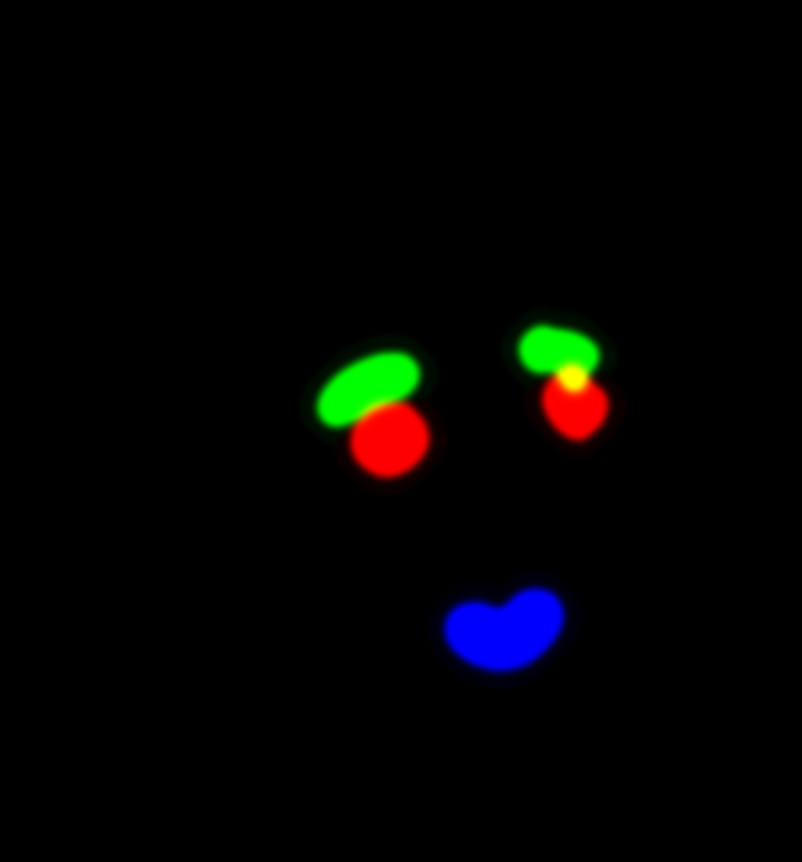
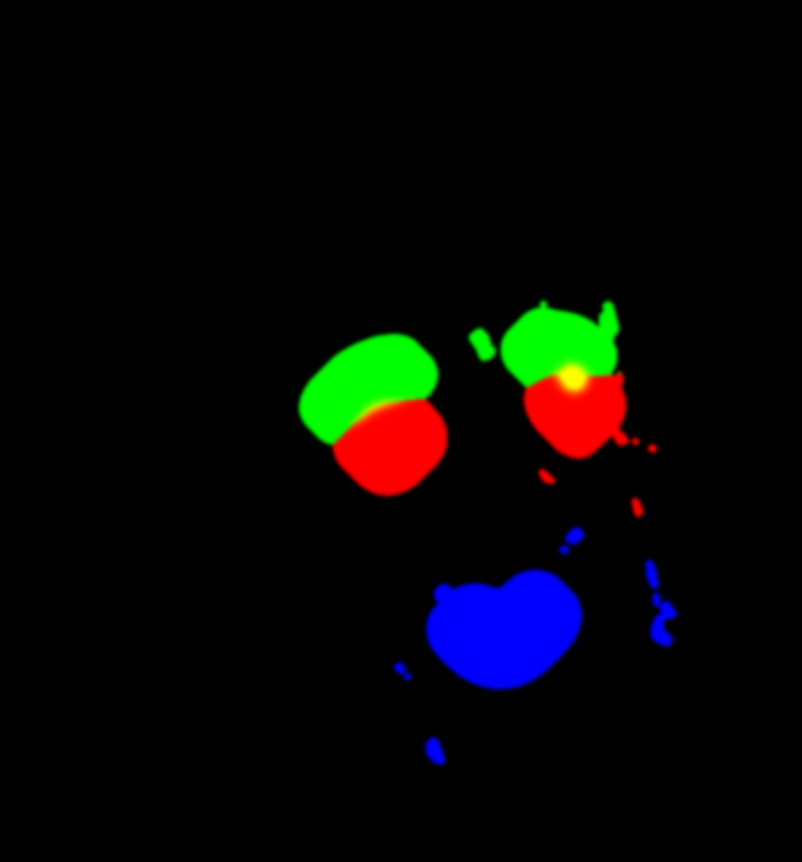
Faces: clean skin textures and feature masks regrown for the eight fitted skins (painted smile lines and brows removed; make_clean_skin.py compares against a wide median, one-hot margins)

diff --git a/tools/face3d/audit/make_clean_skin.py b/tools/face3d/audit/make_clean_skin.py
@@ -5,7 +5,7 @@
 # footprints) were smaller than the features painted in the reference (hose's big black eyes, pixel's blocks), so painted remnants stayed
 # on every emote; and the GLB's own map (the clean one) still carried faint feature rings. This:
 #   1. grows the holes: from the margins (dilated 8 px) outward over pixels where the raw skin differs strongly from a first fill (region
-#      growing, at most 44 px), so the hole matches what is really painted;
+#      growing, at most 130 px), so the hole matches what is really painted;
 #   2. refills them from the skin around (push-pull: coarse averages pushed back in) plus matched grain (noise with the surrounding
 #      high-pass statistics, not a copied patch);
 #   3. writes margins over the grown holes (each hole pixel takes the channel of its nearest original margin: eyes / brows / mouth).
@@ -43,14 +43,20 @@ front = (slice(None), slice(0, HW))
 mf = m.max(2)
 hole0 = nd.binary_dilation(mf > 0.04, iterations=8)
 f0 = pushpull(rw[front], (~hole0).astype(np.float32))
-diff = np.abs(rw[front] - f0).mean(2)
-cand = (diff > 16) & nd.binary_dilation(hole0, iterations=44)
-hole = nd.binary_propagation(hole0, mask=cand | hole0)
+# (against a wide median of the raw skin: f0 equals the raw pixels outside the holes, so it cannot show a feature that lies outside them)
+med = np.stack([nd.median_filter(rw[front][..., c], size=31) for c in range(3)], 2)
+diff = np.abs(rw[front] - med).mean(2)
+cand = (diff > 22) & nd.binary_dilation(hole0, iterations=110)
+# every strong deviation from the surrounding skin near a feature is that feature's paint (the painted smile line starts well outside the
+# margin's mouth footprint, so connectivity to it is not required)
+hole = cand | hole0
+hole = nd.binary_opening(hole, iterations=1) | hole0
 hole = nd.binary_closing(hole, iterations=3) | hole0
 hole = nd.binary_dilation(hole, iterations=3)
 # the clean map (front layer): the GLB map with the grown holes refilled, grain matched
 g = im[front]
 fill = pushpull(g, (~hole).astype(np.float32))
+fill = nd.gaussian_filter(fill, (4, 4, 0))   # (push-pull is blocky at its coarsest levels)
 low = nd.gaussian_filter(g, (3, 3, 0)); hp = g - low
 std = np.array([hp[(~hole) & (nd.binary_dilation(hole, iterations=60))][:, c].std() for c in range(3)])
 noise = nd.gaussian_filter(rng.standard_normal(g.shape).astype(np.float32), (0.8, 0.8, 0)) * std * 1.6
@@ -66,7 +72,8 @@ Image.fromarray(np.clip(clean + 0.5, 0, 255).astype(np.uint8)).save(out_clean, o
 # margins: each hole pixel takes the nearest original margin's channel, edge softened
 idx = nd.distance_transform_edt(~(mf > 0.04), return_indices=True)[1]
 near = m[idx[0], idx[1]]
-mn = np.where(hole[..., None], np.maximum(near, 0.0), 0.0)
+one = (near == near.max(2, keepdims=True)).astype(np.float32)   # the nearest margin's channel, at full strength
+mn = np.where(hole[..., None], one, 0.0)
 mn = np.maximum(mn, m)
 mn = nd.gaussian_filter(mn, (2, 2, 0))
 Image.fromarray(np.clip(mn * 255 + 0.5, 0, 255).astype(np.uint8)).save(out_margins, optimize=True)
